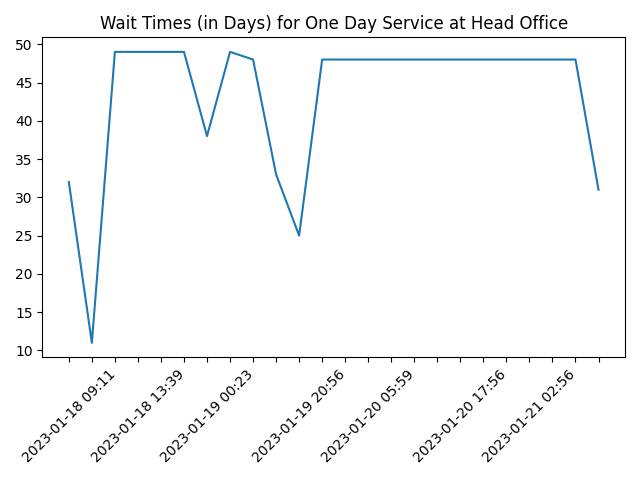
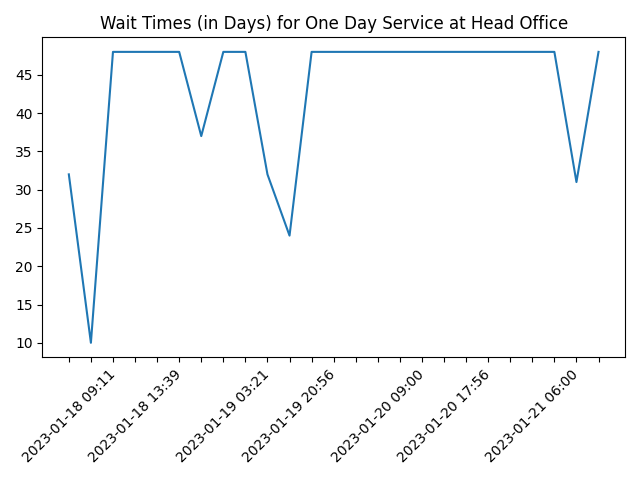
Updated data Sat Jan 21 09:26:54 UTC 2023

diff --git a/README.md b/README.md
@@ -1,12 +1,10 @@
 # Passport Application Reservation System - Availability Report
 
-*As of January 21, 2023 (11:57 AM)*
+*As of January 21, 2023 (02:56 PM)*
 
 ## One Day Service
 
 ### HEAD OFFICE - BATTARAMULLA
-
-* 2023-02-21 (1 timeslot)
 
 * 2023-03-10 (24 timeslots)
 
@@ -32,9 +30,7 @@
 
 ### HEAD OFFICE - BATTARAMULLA
 
-* 2023-04-18 (5 timeslots)
-
-* 2023-04-19 (20 timeslots)
+* 2023-04-19 (18 timeslots)
 
 * 2023-04-20 (20 timeslots)
 

diff --git a/summary.md b/summary.md
@@ -2,7 +2,7 @@
 
 Of the data from the Passport Application Reservation System of the Sri Lanka Department of Immigration and Emigration.
 
-*As of 2023-01-21 11:57:49*
+*As of 2023-01-21 14:56:53*
 
 ![Wait Time Chart](summary.wait_time_chart.png)
 
